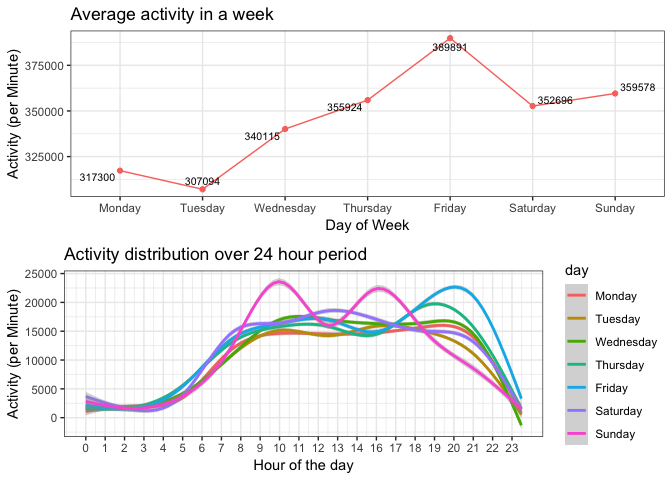
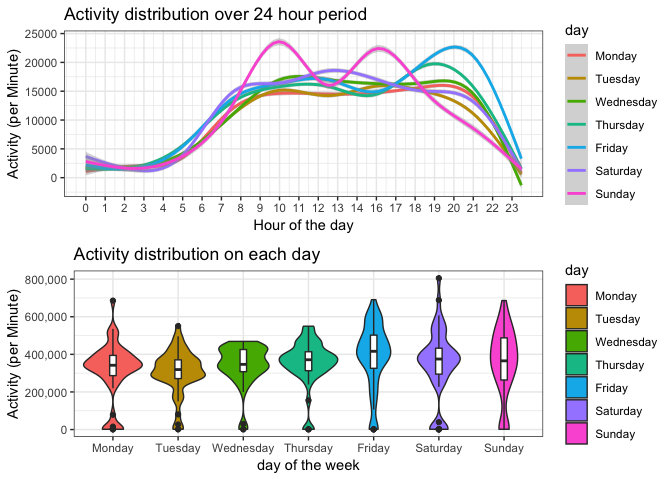
created violin plot

diff --git a/p8105_mtp_tt2714.md b/p8105_mtp_tt2714.md
@@ -465,8 +465,10 @@ total_activity_day = clean_data %>%
 activity_by_day = total_activity_day %>%
   group_by(day) %>% summarise_at(vars(activity), mean) %>% mutate(activity, activity = round(activity))
 
-g1 = ggplot(activity_by_day, aes(x = day, y = activity, group = 1, color = "red")) + geom_point() + geom_line() + geom_text_repel(aes(label = activity), size = 2.8, color = "black") + theme_bw() + labs(title = "Average activity in a week", x = "Day of Week", y = "Activity (per Minute)") + theme(legend.position = "none")
+ggplot(activity_by_day, aes(x = day, y = activity, group = 1, color = "red")) + geom_point() + geom_line() + geom_text_repel(aes(label = activity), size = 2.8, color = "black") + theme_bw() + labs(title = "Average activity per day", x = "Day of Week", y = "Activity (per Minute)") + theme(legend.position = "none")
 ```
+
+![](p8105_mtp_tt2714_files/figure-gfm/unnamed-chunk-2-1.png)<!-- -->
 
 ``` r
 activity_by_hour = clean_data %>% 
@@ -479,7 +481,11 @@ activity_by_hour = clean_data %>%
 
 timeHMS_formatter <- function(x) {h <- floor(x/60)}
 
-g2 = ggplot(activity_by_hour, aes(x = time, y = activity, color = day)) + geom_smooth(method = "auto") + scale_x_continuous(label = timeHMS_formatter, breaks = seq(1, 1440, by = 64)) + labs(title = "Activity distribution over 24 hour period", x = "Hour of the day", y = "Activity (per Minute)") + theme_bw()
+g1 = ggplot(activity_by_hour, aes(x = time, y = activity, color = day)) + geom_smooth(method = "auto") + scale_x_continuous(label = timeHMS_formatter, breaks = seq(1, 1440, by = 64)) + labs(title = "Activity distribution over 24 hour period", x = "Hour of the day", y = "Activity (per Minute)") + theme_bw()
+```
+
+``` r
+g2 = ggplot(total_activity_day, aes(x = day, y = activity)) + geom_violin(adjust = 0.8, aes(fill = day))  + geom_boxplot(width = 0.1) + labs(title = "Activity distribution on each day", x = "day of the week", y = "Activity (per Minute)") + theme_bw() + scale_y_continuous(labels = scales::comma)
 ```
 
 ``` r
